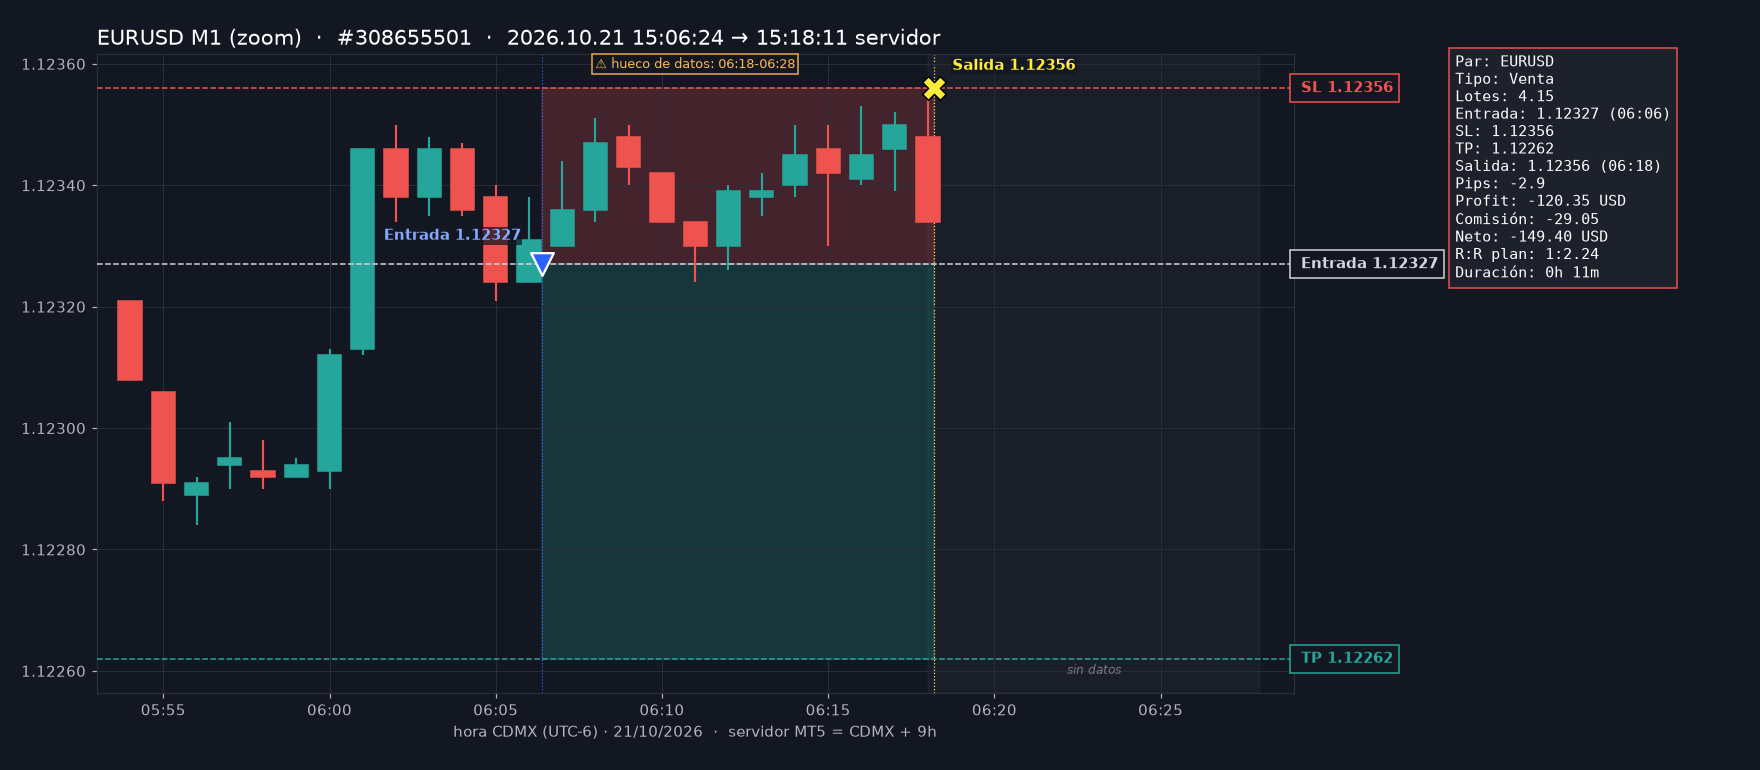
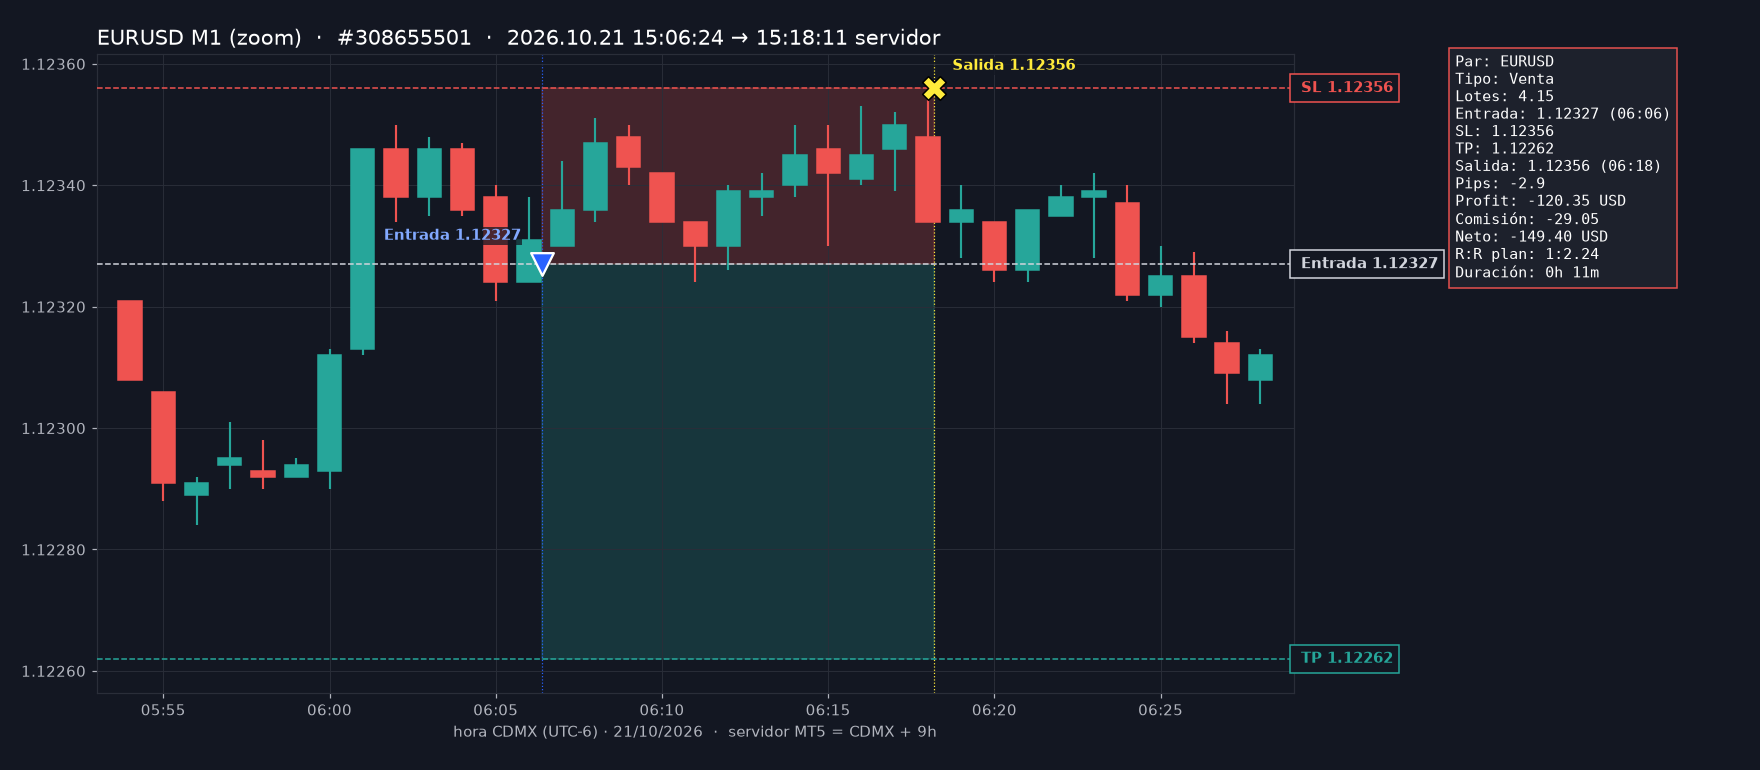
Trade #308669958 cerrado (tj-v45)

Changed region(s): [[0.5312, 0.2494, 0.6875, 0.4364], [0.3438, 0.0623, 0.4688, 0.0935], [0.6875, 0.4364, 0.75, 0.4987]]

diff --git a/sw.js b/sw.js
@@ -1,5 +1,5 @@
 // Sube VERSION al actualizar data.json o assets
-const VERSION='tj-v44';
+const VERSION='tj-v45';
 const CORE=['./','./index.html','./style.css','./app.js','./manifest.json','./vendor/chart.umd.min.js','./icons/icon-192.png','./icons/icon-512.png','./icons/apple-touch-icon.png','./data.json'];
 self.addEventListener('install',e=>e.waitUntil(caches.open(VERSION).then(c=>c.addAll(CORE)).then(()=>self.skipWaiting())));
 self.addEventListener('activate',e=>e.waitUntil(caches.keys().then(ks=>Promise.all(ks.filter(k=>k!==VERSION).map(k=>caches.delete(k)))).then(()=>self.clients.claim())));
